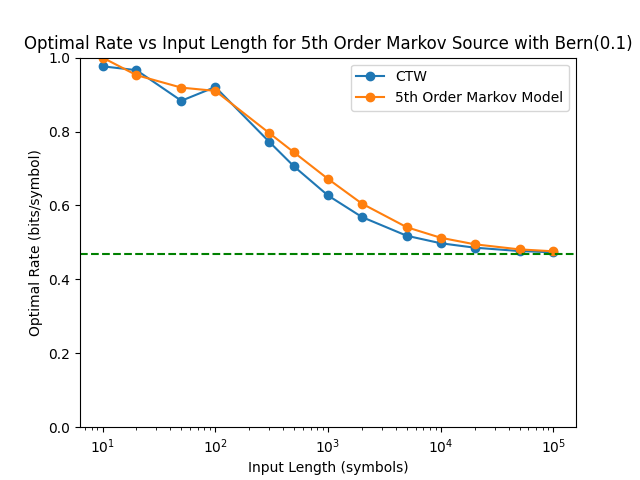
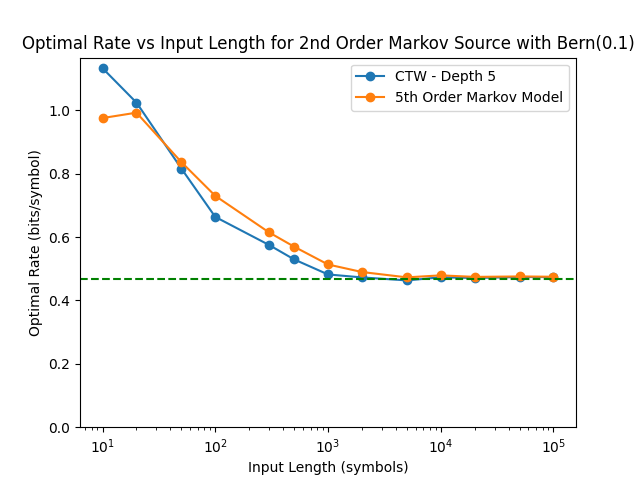
fixed a bug with the perf eval script

diff --git a/scl/compressors/ctw_perf_eval.py b/scl/compressors/ctw_perf_eval.py
@@ -19,40 +19,33 @@ from typing import Any
 def compute_optimal_rate(enc: Any, sequence: list):
     bits = 0
     for symbol in sequence:
-        enc.update_model(symbol)
-        freq_dist = enc.freqs_current.freq_list
+        freq = enc.freqs_current.frequency(symbol)
         total_freq = enc.freqs_current.total_freq
-
-        entropy = 0
-        for freq in freq_dist:
-            prob = freq/total_freq
-            entropy += prob * log2(1/prob)
-
-        bits += entropy
+        bits += log2(total_freq/freq)
+        enc.update_model(symbol)
     return bits
 
 def test_time_vs_input_size():
     sizes_to_test = [1, 2, 3, 4, 5, 10, 20]
 
-    """
-    times_taken = []
-    for input_size in sizes_to_test:
-        input_seq = np.zeros(input_size*100000, dtype=int)
-        ctw_enc = CTWModel(3, BitArray("110"))
+    times_taken = [3905.0087928771973, 6431.334733963013, 9527.854681015015, 12986.912488937378, 17629.652738571167, 35804.90827560425, 71199.5599269867]
+    # times_taken = []
+    if not times_taken:
+        for input_size in sizes_to_test:
+            input_seq = np.zeros(input_size*100000, dtype=int)
+            ctw_enc = CTWModel(3, BitArray("110"))
 
-        start_time = time.time()
+            start_time = time.time()
 
-        for symbol in input_seq:
-            ctw_enc.update_model(symbol)
+            for symbol in input_seq:
+                ctw_enc.update_model(symbol)
 
-        times_taken.append((time.time() - start_time)*1000)
-    """
+            times_taken.append((time.time() - start_time)*1000)
 
-    times_taken_precomputed = [2908.867597579956, 5795.073986053467, 8563.17138671875, 11593.276977539062, 14253.265142440796, 28525.282859802246, 57110.273122787476]
-    print(times_taken_precomputed)
+    print(times_taken)
     
     plt.figure()
-    plt.plot(sizes_to_test, [t/1000 for t in times_taken_precomputed], 'o-')  # 'o-' means that the points will be marked and connected by a line
+    plt.plot(sizes_to_test, [t/1000 for t in times_taken], 'o-')  # 'o-' means that the points will be marked and connected by a line
 
     plt.xlabel('Input Length (symbols) x 100,000')
     plt.ylabel('Encode Time (s)')
@@ -66,25 +59,24 @@ def test_time_vs_tree_size():
     datasize = 100000
     sizes_to_test = [1, 2, 3, 4, 5, 10, 20]
 
-    """
-    times_taken = []
-    for input_size in sizes_to_test:
-        input_seq = np.zeros(datasize, dtype=int)
-        ctw_enc = CTWModel(input_size, BitArray("0"*input_size))
+    times_taken = [2461.505889892578, 3035.9439849853516, 3503.7267208099365, 3989.502429962158, 4312.785387039185, 6371.909141540527, 12429.552555084229]
+    # times_taken = []
+    if not times_taken:
+        for input_size in sizes_to_test:
+            input_seq = np.zeros(datasize, dtype=int)
+            ctw_enc = CTWModel(input_size, BitArray("0"*input_size))
 
-        start_time = time.time()
+            start_time = time.time()
 
-        for symbol in input_seq:
-            ctw_enc.update_model(symbol)
+            for symbol in input_seq:
+                ctw_enc.update_model(symbol)
 
-        times_taken.append((time.time() - start_time)*1000)
-    """
+            times_taken.append((time.time() - start_time)*1000)
 
-    times_taken_precomputed = [2012.902021408081, 2474.2307662963867, 2937.960147857666, 3301.0332584381104, 3753.5312175750732, 5839.991807937622, 10435.01329421997]
-    print(times_taken_precomputed)
+    print(times_taken)
     
     plt.figure()
-    plt.plot(sizes_to_test, [t/1000 for t in times_taken_precomputed], 'o-')  # 'o-' means that the points will be marked and connected by a line
+    plt.plot(sizes_to_test, [t/1000 for t in times_taken], 'o-')  # 'o-' means that the points will be marked and connected by a line
 
     plt.xlabel('Tree Size (Height)')
     plt.ylabel('Encode Time (s)')
@@ -133,40 +125,35 @@ def test_rate_vs_input_length_markov():
     sizes_to_test = [10, 20, 50, 100, 300, 500, 1000, 2000, 5000, 10000, 20000, 50000, 100000]
     aec_params = AECParams()
     prob_flip = 0.1
-    k=5
+    k=2
 
-    """
     expected_rates = []
     expected_markov_rates = []
     for input_size in sizes_to_test:
         input_seq = gen_kth_order_markov_seq(k, input_size, prob_flip, seed=1)
-        context_str = ''.join([str(s) for s in input_seq[:k]]) 
+        context_str = ''.join([str(s) for s in input_seq[:5]]) 
 
-        ctw_enc = CTWModel(k, BitArray(context_str))
-        markov_enc = AdaptiveOrderKFreqModel([0, 1], k, aec_params.MAX_ALLOWED_TOTAL_FREQ)
+        ctw_enc = CTWModel(5, BitArray(context_str))
+        markov_enc = AdaptiveOrderKFreqModel([0, 1], 5, aec_params.MAX_ALLOWED_TOTAL_FREQ)
 
         ctw_bits = compute_optimal_rate(ctw_enc, input_seq[k:]) + k
         markov_bits = compute_optimal_rate(markov_enc, input_seq)
         expected_rates.append(ctw_bits/input_size)
         expected_markov_rates.append(markov_bits/input_size)
-    """
 
-    expected_rates_precomputed = [0.9764031350542443, 0.9660057524677498, 0.8832024532985352, 0.920452269316836, 0.7726705314975587, 0.7054213821198038, 0.6269632874770548, 0.568649166831337, 0.5179458987400668, 0.4976660642383781, 0.485771863954453, 0.4765432680362103, 0.47327161233011217]
-    expected_markov_rates_precomputed = [1.0, 0.9525313543649847, 0.918772449626383, 0.9099632824307652, 0.7962795901223189, 0.7433608348425556, 0.6717780794227087, 0.6049086038043991, 0.5410284098012595, 0.5125271659470453, 0.49491314213474624, 0.4811054209226618, 0.4758971526515169]
-
-    print(expected_rates_precomputed)
-    print(expected_markov_rates_precomputed)
+    print(expected_rates)
+    print(expected_markov_rates)
 
     plt.figure()
-    plt.plot(sizes_to_test, expected_rates_precomputed, 'o-')  # 'o-' means that the points will be marked and connected by a line
-    plt.plot(sizes_to_test, expected_markov_rates_precomputed, 'o-')  # 'o-' means that the points will be marked and connected by a line
+    plt.plot(sizes_to_test, expected_rates, 'o-')  # 'o-' means that the points will be marked and connected by a line
+    plt.plot(sizes_to_test, expected_markov_rates, 'o-')  # 'o-' means that the points will be marked and connected by a line
 
     plt.xlabel('Input Length (symbols)')
     plt.ylabel('Optimal Rate (bits/symbol)')
-    plt.ylim([0, 1])
+    plt.gca().set_ylim(bottom=0)
     plt.xscale('log')
-    plt.title("Optimal Rate vs Input Length for 5th Order Markov Source with Bern(0.1)")
-    plt.legend(["CTW", "5th Order Markov Model"])
+    plt.title("Optimal Rate vs Input Length for 2nd Order Markov Source with Bern(0.1)")
+    plt.legend(["CTW - Depth 5", "5th Order Markov Model"])
 
     # TODO: Make this a dashed line?
     plt.axhline(prob_flip*log2(1/prob_flip) + (1-prob_flip)*log2(1/(1-prob_flip)), color='green', linestyle='--')
@@ -191,7 +178,7 @@ def test_rate_vs_input_length_tree_source():
     sizes_to_test = [10, 20, 50, 100, 300, 500, 1000, 2000, 5000, 10000]
     aec_params = AECParams()
     prob_flip = 0.1
-    k=2
+    k=5
 
     expected_rates = []
     expected_markov_rates = []
@@ -207,22 +194,19 @@ def test_rate_vs_input_length_tree_source():
         expected_rates.append(ctw_bits/input_size)
         expected_markov_rates.append(markov_bits/input_size)
         
-    expected_rates_precomputed = expected_rates
-    expected_markov_rates_precomputed = expected_markov_rates
-
-    print(expected_rates_precomputed)
-    print(expected_markov_rates_precomputed)
+    print(expected_rates)
+    print(expected_markov_rates)
 
     plt.figure()
-    plt.plot(sizes_to_test, expected_rates_precomputed, 'o-')  # 'o-' means that the points will be marked and connected by a line
-    plt.plot(sizes_to_test, expected_markov_rates_precomputed, 'o-')  # 'o-' means that the points will be marked and connected by a line
+    plt.plot(sizes_to_test, expected_rates, 'o-')  # 'o-' means that the points will be marked and connected by a line
+    plt.plot(sizes_to_test, expected_markov_rates, 'o-')  # 'o-' means that the points will be marked and connected by a line
 
     plt.xlabel('Input Length (symbols)')
     plt.ylabel('Optimal Rate (bits/symbol)')
     plt.ylim([0, 1])
     plt.xscale('log')
     plt.title("Optimal Rate vs Input Length for 2nd Order Tree Source with Bern(0.1)")
-    plt.legend(["CTW", "2nd Order Markov"])
+    plt.legend(["CTW - Depth 5", "5th Order Markov"])
 
     # TODO: Make this a dashed line?
     plt.axhline(prob_flip*log2(1/prob_flip) + (1-prob_flip)*log2(1/(1-prob_flip)), color='green', linestyle='--')
@@ -238,7 +222,6 @@ def test_rate_vs_input_length_english():
     aec_params = AECParams()
     k_chars=2
 
-    """
     expected_rates = []
     expected_rates_unicode = []
     expected_markov_rates = []
@@ -264,7 +247,6 @@ def test_rate_vs_input_length_english():
         expected_rates.append(ctw_bits/input_size)
         expected_rates_unicode.append(ctw_unicode_bits/input_size)
         expected_markov_rates.append(markov_bits/input_size)
-    """
 
     expected_lz77_rates = []
     for input_size in sizes_to_test:
@@ -279,27 +261,26 @@ def test_rate_vs_input_length_english():
 
         expected_lz77_rates.append(len(lz77_bits)/input_size)
 
-    expected_rates_precomputed = [7.767702521503873, 7.591960185250805, 7.333576247710156, 7.121935185837094, 6.918347069483133, 6.741904222534488, 6.511946794167895]
-    expected_rates_unicode_precomputed = [6.451259916162104, 6.268055797216225, 6.125702512671365, 6.065929549807966, 6.0090381323044415, 5.954248159267637, 5.895249096437932]
-    expected_markov_rates_precomputed = [8.0, 7.999784244802657, 7.999640408004429, 7.999361937720744, 7.999068198644859, 7.998812208526192, 7.998421190295794]
-    print(expected_rates_precomputed)
-    print(expected_rates_unicode_precomputed)
-    print(expected_markov_rates_precomputed)
+    print(expected_rates)
+    print(expected_rates_unicode)
+    print(expected_markov_rates)
 
     print(expected_lz77_rates)
 
     plt.figure()
-    plt.plot(sizes_to_test, expected_rates_precomputed, 'o-')  # 'o-' means that the points will be marked and connected by a line
-    plt.plot(sizes_to_test, expected_rates_unicode_precomputed, 'o-')
-    plt.plot(sizes_to_test, expected_markov_rates_precomputed, 'o-')
-    plt.plot(sizes_to_test, expected_lz77_rates, 'o-')
+    plt.plot(sizes_to_test, expected_rates, 'o-')  # 'o-' means that the points will be marked and connected by a line
+    plt.plot(sizes_to_test, expected_rates_unicode, 'o-')
+    plt.plot(sizes_to_test, expected_markov_rates, 'o-')
+    # plt.plot(sizes_to_test, expected_lz77_rates, 'o-')
 
 
     plt.xlabel('Input Length (characters)')
     plt.ylabel('Optimal Rate (bits/symbol)')
-    plt.legend(["CTW", "CTW with 8 trees", str(k_chars) + "nd Order Markov", "LZ77"])
+    plt.legend(["CTW - Depth 16", "CTW with 8 trees - Depth 16", "16th Order Markov", "LZ77"])
     # plt.ylim(5.5, 8.5)
     plt.xlim(0, 160)
 
     plt.title("Optimal Rate vs Input Length for English Source")
     plt.savefig('rate_vs_input_length_english.png')
+
+test_rate_vs_input_length_english()

diff --git a/scl/compressors/ctw_eval.py b/scl/compressors/ctw_eval.py
@@ -222,7 +222,7 @@ def test_and_plot():
         decoder = LZ77Decoder(initial_window=None)
         start_time_huffman = time.time()
         # TODO: uncomment and fix resulting error
-        # is_lossless, output_len, _ = try_lossless_compression(seq_as_datablock, encoder, decoder)
+        is_lossless, output_len, _ = try_lossless_compression(seq_as_datablock, encoder, decoder)
         time_taken_huffman = time.time() - start_time_huffman
         assert is_lossless
         lz_t.append(time_taken_huffman*1000)
@@ -237,7 +237,7 @@ def test_and_plot():
 
     plt.xlabel('Input Length (symbols)')
     plt.ylabel('Time (ms))')
-    plt.legend(["CTW", "3rd Order Markov", "Huffman", "LZ77"])
+    plt.legend(["CTW - Depth 3", "3rd Order Markov", "Huffman", "LZ77"])
 
     plt.title("Compression Time (Encode + Decode) vs Input Length")
     plt.savefig('time_vs_length_all.png')
@@ -246,14 +246,14 @@ def test_and_plot():
     plt.plot(sizes, ctw_r, 'o-')  # 'o-' means that the points will be marked and connected by a line
     plt.plot(sizes, adapt_r, 'o-')
     plt.plot(sizes, huff_r, 'o-')
-    plt.plot(sizes, lz_r, 'o-')
+    #plt.plot(sizes, lz_r, 'o-')
 
 
     plt.xlabel('Input Length (symbols)')
     plt.ylabel('Rate (bits/symbol))')
-    plt.legend(["CTW", "3rd Order Markov", "Huffman", "LZ77"])
+    plt.legend(["CTW - Depth 3", "3rd Order Markov", "Huffman", "LZ77"])
     prob_flip = 0.1
-    plt.ylim([0, 1.1])
+    plt.gca().set_ylim(bottom=0)
     plt.axhline(prob_flip*log2(1/prob_flip) + (1-prob_flip)*log2(1/(1-prob_flip)), color='green', linestyle='--')
 
     plt.title("Compression Rate vs Input Length")

diff --git a/scl/compressors/lz77.py b/scl/compressors/lz77.py
@@ -536,7 +536,7 @@ class LZ77Encoder(DataEncoder):
         pos_in_window = len(self.window)
 
         # put the entire data block in the window at once, we will find matches later
-        self.window += data_block.data_list
+        self.window += list(data_block.data_list)
 
         # now go over the window starting at pos_in_window and try to find matches
         # in the past
